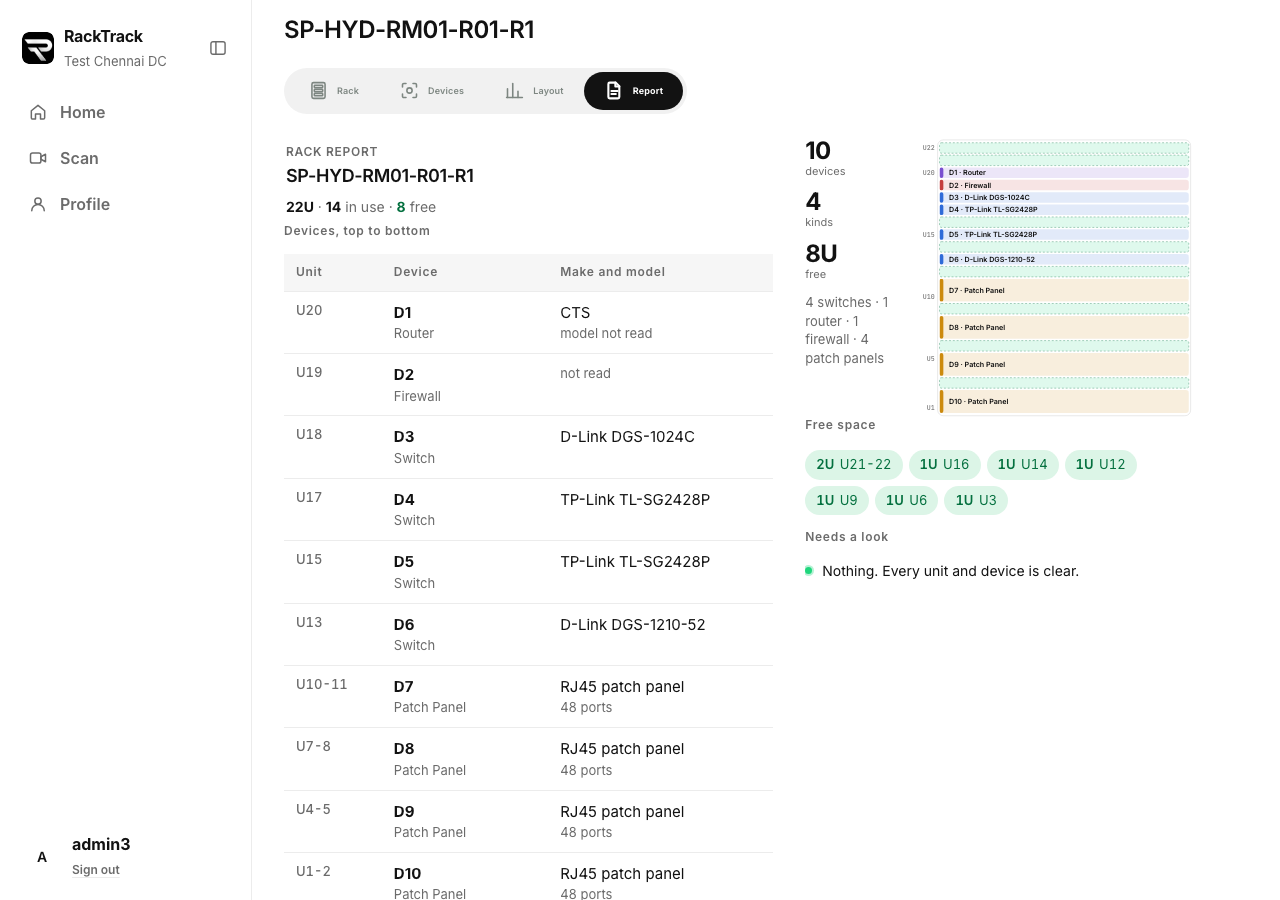
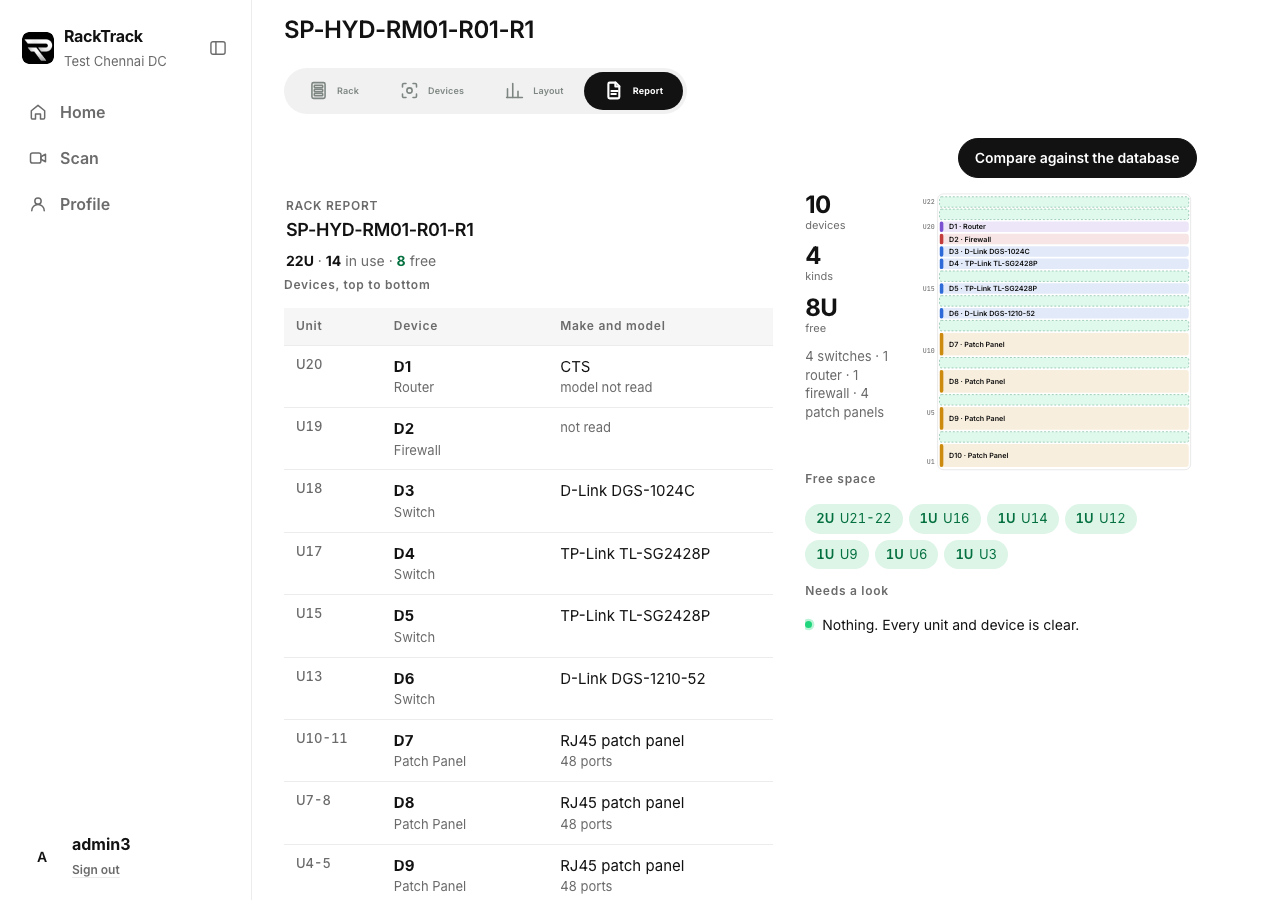
The Report shows only the rack report until the Compare against the database button, top right, is used: a dropdown of Excel workbook, NetBox and ServiceNow CMDB, one panel to confirm the verified rack id (rack id, overall confidence, one line per step, label crop, Confirm and Change), then the diff

diff --git a/mobile/app.js b/mobile/app.js
@@ -529,7 +529,7 @@
   function openResult(id, tab) {
     if (!id) return go('history');
     var fresh = RES.id !== id;
-    if (fresh) { RES.sel = null; RES.view = null; RES.pick = null; RES.labelAsked = null; RES.cmp = null; RES.cmpSrc = null; RES.diffMode = null; $('df-top').innerHTML = ''; $('diff-top').innerHTML = ''; }
+    if (fresh) { RES.sel = null; RES.view = null; RES.pick = null; RES.labelAsked = null; RES.cmp = null; RES.cmpSrc = null; RES.cmpUi = 'idle'; RES.cmpPick = false; RES.diffMode = null; $('cmp-menu').hidden = true; $('sec-tools').hidden = true; $('df-top').innerHTML = ''; $('diff-top').innerHTML = ''; }
     RES.id = id; clearInterval(RES.timer); remember(id);
     RES.tab = tab; $('res-eyebrow').textContent = 'Result'; $('rep-full').hidden = NATIVE;   // only the open tab shows (data-tab)
     loadView(true);
@@ -896,36 +896,32 @@
   function loadDrift() { var id = RES.id; api('/api/video/' + id + '/drift').then(function (d) { if (RES.id === id) renderCompare(d); }).catch(function (e) { $('df-top').innerHTML = '<p class="err">' + esc(e.message) + '</p>'; }); }
   function setDb(body) { return api('/api/video/' + RES.id + '/database', { method: 'POST', headers: { 'Content-Type': 'application/json' }, body: JSON.stringify(body) }).then(function (d) { renderCompare(d); return d; }).catch(function (e) { toast(e.message); }); }
   function copyWhen(d, s) { return d.imported[s] ? 'copy of ' + d.imported[s].replace('T', ' ').slice(0, 16) : 'no copy yet'; }
+  var SRCLABEL = { excel: 'Excel workbook', netbox: 'NetBox', cmdb: 'ServiceNow CMDB' };
+  function firstSentence(t) { t = String(t || '').replace(/\s+/g, ' ').trim(); var m = t.match(/^.*?[.!?](\s|$)/); t = m ? m[0].trim() : t; return t.length > 110 ? t.slice(0, 107) + '...' : t; }
+  // the compare, in the owner's order: a button, a dropdown of the three databases, one panel to confirm the rack id, then the differences.
+  // RES.cmpUi: idle (nothing shown) > confirm (the panel) > drift (the differences)
   function renderCompare(d) {
-    RES.cmp = d; var src = RES.cmpSrc || d.source || 'excel', has = !!d.imported[src], open = d.chosen && d.source === src;
-    var h = '<div class="card cmpcard"><div class="dfrow"><label class="muted small" for="cmp-src">Database</label><select id="cmp-src">'
-      + Object.keys(d.sources).map(function (s) { return '<option value="' + s + '"' + (s === src ? ' selected' : '') + '>' + esc(d.sources[s]) + ' (' + copyWhen(d, s) + ')</option>'; }).join('') + '</select>'
-      + (has ? '<button class="btn primary" type="button" id="cmp-go">Compare against the database</button>'
-        : src === 'excel' ? '<a class="btn primary" href="#copies">No workbook copied yet: copy one in</a>'
-        : '<button class="btn primary" type="button" id="cmp-copy" data-src="' + src + '">No ' + esc(d.sources[src]) + ' copy yet: copy in and compare</button>') + '</div>'
-      + '<p class="muted small">Copies and logins are kept under Profile: <a href="#copies">Database copies</a> and <a href="#connections">Connections</a>.</p></div>';
-    if (open) {
-      var I = d.identify || { steps: [] };
-      h += '<div class="card idcard"><div class="dfrow"><b>Which rack this is</b>' + (I.confidence != null ? '<span class="idconf ' + esc(I.state) + '">' + pc(I.confidence) + '</span>' : '') + '</div>'
-        + '<p class="verdict ' + esc(I.state || '') + '">' + esc(I.words || '') + '</p>'
-        + '<figure class="lblstrip"><img src="/api/video/' + encodeURIComponent(RES.id) + '/rack-label.jpg" alt="The strip above the first unit" onerror="this.parentNode.hidden=true"><figcaption class="muted small">The strip of the rack picture above the first unit, where the rack label is read.</figcaption></figure>'
-        + '<ol class="idsteps">' + I.steps.map(function (st) { return '<li class="st-' + st.outcome + (st.agrees === false ? ' st-against' : '') + '"><div class="dfrow"><b>Step ' + st.n + ' · ' + esc(st.title) + (st.conf != null ? ': ' + pc(st.conf) : '') + '</b><span class="idout">' + (OUTCOME[st.outcome] || esc(st.outcome)) + (st.left && st.left.length === 1 ? ': ' + esc(st.left[0]) : '') + '</span></div>'
-          + (st.why && st.n !== 0 ? '<p class="small">' + esc(st.why) + '</p>' : '') + '<p class="muted small">' + esc(st.proof) + (st.n === 0 ? ' <a href="#" data-cmpchange>Change</a>' : '') + '</p></li>'; }).join('') + '</ol>';
-      if (d.match) h += '<p>Record: <b>' + esc(d.match.rack_key) + '</b> in ' + esc(d.sources[src]) + ', matched ' + (HOW[d.match.how] || esc(d.match.how)) + '. <span class="muted small">' + esc(d.match.why) + '</span></p>';
-      if (!d.match && I.top && I.top.length) h += '<p class="glabel">The closest racks</p><div class="idtop">' + I.top.map(function (t) { return '<button class="btn" type="button" data-cmppick="' + esc(t.rack_key) + '">' + esc(t.rack_key) + '<small class="muted"> ' + esc(t.why) + '</small></button>'; }).join('') + '</div>';
-      h += '<div class="dfrow"><label class="muted small" for="cmp-type">' + (d.match ? 'Use another record' : 'Which rack is this?') + '</label><input id="cmp-type" list="cmp-list" placeholder="Search or type a rack id" autocomplete="off"><datalist id="cmp-list">'
-        + d.candidates.map(function (r) { return '<option value="' + esc(r.rack_key) + '">' + esc(r.rack_key) + ' - ' + pl(r.devices, 'device') + '</option>'; }).join('') + '</datalist><button class="btn" type="button" id="cmp-use">Use this record</button></div>'
-        + '<p class="muted small">A name not in this copy is kept as this rack\'s id for the next scan of it (Change, next to the rack id at the top).</p>'
-        + (d.match ? '<div class="dfrow"><button class="btn primary big" type="button" id="cmp-continue">' + (d.confirmed ? 'Compared. Compare again' : 'Continue') + '</button></div>' : '') + '</div>';
+    RES.cmp = d; var ui = RES.cmpUi || 'idle', src = RES.cmpSrc || d.source || 'excel', I = d.identify || { steps: [] };
+    if (ui !== 'confirm' || !(d.chosen && d.source === src)) { $('df-top').innerHTML = ''; return renderDiff(d, ui === 'drift'); }
+    var m = d.match;
+    var h = '<div class="card idcard"><div class="dfrow"><b>Confirm the verified rack id</b><span class="muted small">' + esc(SRCLABEL[src] || d.sources[src]) + '</span></div>'
+      + '<div class="dfrow idhead"><span class="idrack">' + (m ? esc(m.rack_key) : 'No single rack found') + '</span>' + (I.confidence != null ? '<span class="idconf ' + esc(I.state) + '">' + pc(I.confidence) + ' overall</span>' : '') + '</div>'
+      + '<figure class="lblstrip"><img src="/api/video/' + encodeURIComponent(RES.id) + '/rack-label.jpg" alt="The rack label crop" onerror="this.parentNode.hidden=true"></figure>'
+      + '<ul class="idlines">' + I.steps.filter(function (st) { return st.outcome !== 'skipped' || st.n === 0; }).map(function (st) { return '<li><b>' + esc(st.title) + '</b><span class="idc">' + (st.conf != null ? pc(st.conf) : (OUTCOME[st.outcome] || '')) + '</span><span class="muted small idw">' + esc(firstSentence(st.why || st.proof)) + '</span></li>'; }).join('') + '</ul>'
+      + '<div class="dfrow idbtns"><button class="btn primary" type="button" id="cmp-continue"' + (m ? '' : ' disabled') + '>Confirm</button><button class="btn" type="button" id="cmp-change">Change</button></div>';
+    if (RES.cmpPick || !m) {
+      h += '<div class="idpick">' + (!m && I.top && I.top.length ? '<p class="glabel">The closest racks</p><div class="idtop">' + I.top.map(function (t) { return '<button class="btn" type="button" data-cmppick="' + esc(t.rack_key) + '">' + esc(t.rack_key) + '<small class="muted"> ' + esc(t.why) + '</small></button>'; }).join('') + '</div>' : '')
+        + '<div class="dfrow"><label class="muted small" for="cmp-type">Which record is this rack?</label><input id="cmp-type" list="cmp-list" placeholder="Search or type a rack id" autocomplete="off"><datalist id="cmp-list">'
+        + d.candidates.map(function (r) { return '<option value="' + esc(r.rack_key) + '">' + esc(r.rack_key) + ' - ' + pl(r.devices, 'device') + '</option>'; }).join('') + '</datalist><button class="btn" type="button" id="cmp-use">Use this record</button></div></div>';
     }
-    $('df-top').innerHTML = h;
-    renderDiff(d);
+    $('df-top').innerHTML = h + '</div>';
+    renderDiff(d, false);
   }
   function recordRow(d, name) { var r = (d.record || []).filter(function (x) { return x.name === name; })[0]; if (!r) return '';
     return [r.name, r.kind, [r.manufacturer, r.model].filter(Boolean).join(' '), r.ru_start != null ? 'U' + r.ru_start + (r.ru_height > 1 ? '-' + (r.ru_start + r.ru_height - 1) : '') : ''].filter(Boolean).map(esc).join(' · '); }
-  function renderDiff(d) {
+  function renderDiff(d, show) {
     var el = $('diff-top');
-    if (!(d.confirmed && d.drift && d.match)) { el.innerHTML = ''; return; }
+    if (!(show && d.confirmed && d.drift && d.match)) { el.innerHTML = ''; return; }
     var rows = d.drift.rows, mode = RES.diffMode || 'short', by = {}, src = d.sources[d.source];
     rows.forEach(function (r) { by[r.what] = (by[r.what] || 0) + 1; });
     var head = '<b>' + rows.length + '</b> ' + (rows.length === 1 ? 'difference' : 'differences') + ' against <b>' + esc(d.match.rack_key) + '</b> in ' + esc(src);
@@ -941,19 +937,22 @@
     if (d.drift.notes.length) h += '<details class="card"><summary>Not checked (' + d.drift.notes.length + ')</summary><ul class="muted small">' + d.drift.notes.map(function (n) { return '<li>' + esc(n) + '</li>'; }).join('') + '</ul></details>';
     el.innerHTML = h;
   }
-  document.addEventListener('change', function (e) { if (e.target.id !== 'cmp-src') return; RES.cmpSrc = e.target.value; renderCompare(RES.cmp); });
-  document.addEventListener('click', function (e) { var t = e.target.closest && e.target.closest('#cmp-go, #cmp-copy, #cmp-use, #cmp-continue, [data-cmppick], [data-dfmode], [data-cmpchange]'); if (!t) return;
-    if (t.hasAttribute('data-cmpchange')) { e.preventDefault(); var ty = $('cmp-type'); if (ty) { ty.focus(); ty.scrollIntoView({ block: 'center' }); } return; }
+    document.addEventListener('click', function (e) { var t = e.target.closest && e.target.closest('#cmp-btn, #more-link, #cmp-change, [data-cmpsrc], #cmp-use, #cmp-continue, [data-cmppick], [data-dfmode]'); if (!t) return;
+    if (t.id === 'cmp-btn') { var mn = $('cmp-menu'); mn.hidden = !mn.hidden; t.setAttribute('aria-expanded', String(!mn.hidden)); return; }
+    if (t.id === 'more-link') { e.preventDefault(); var st = $('sec-tools'); st.hidden = !st.hidden; if (!st.hidden) { if (window.RTFEAT && !$('res-tools').children.length) window.RTFEAT.fillResult(RES.id); st.scrollIntoView({ block: 'nearest' }); } return; }
+    if (t.id === 'cmp-change') { RES.cmpPick = !RES.cmpPick; renderCompare(RES.cmp); var ty0 = $('cmp-type'); if (ty0) ty0.focus(); return; }
     var src = RES.cmpSrc || (RES.cmp && RES.cmp.source) || 'excel';
-    if (t.dataset.dfmode) { RES.diffMode = t.dataset.dfmode; return renderDiff(RES.cmp); }
-    if (t.id === 'cmp-go') return setDb({ source: src });
-    if (t.id === 'cmp-copy') { t.disabled = true; t.textContent = 'Copying...'; return api('/api/sources/' + t.dataset.src + '/import', { method: 'POST' }).then(function (r) { toast(pl(r.devices, 'device') + ' copied in from ' + pl(r.racks, 'rack')); return setDb({ source: src }); }).catch(function (er) { toast(er.message); loadDrift(); }); }
+    if (t.dataset.dfmode) { RES.diffMode = t.dataset.dfmode; return renderDiff(RES.cmp, true); }
+    if (t.dataset.cmpsrc) { src = t.dataset.cmpsrc; RES.cmpSrc = src; $('cmp-menu').hidden = true; $('cmp-btn').setAttribute('aria-expanded', 'false'); RES.cmpPick = false; RES.cmpUi = 'confirm';
+      if (RES.cmp && RES.cmp.imported[src]) return setDb({ source: src });
+      if (src === 'excel') { RES.cmpUi = 'idle'; toast('No workbook is copied in yet. Copy one in under Database copies.'); return go('copies'); }
+      toast('Copying ' + SRCLABEL[src] + ' in...'); return api('/api/sources/' + src + '/import', { method: 'POST' }).then(function (r) { toast(pl(r.devices, 'device') + ' copied in from ' + pl(r.racks, 'rack')); return setDb({ source: src }); }).catch(function (er) { RES.cmpUi = 'idle'; toast(er.message); loadDrift(); }); }
     if (t.dataset.cmppick) return setDb({ source: src, rack_key: t.dataset.cmppick });
     if (t.id === 'cmp-use') { var v = ($('cmp-type').value || '').trim(); if (!v) return toast('Type or pick a rack id first.');
       var known = (RES.cmp.candidates || []).some(function (r) { return r.rack_key === v; });
       if (known) return setDb({ source: src, rack_key: v });
       return saveRackId({ id: v }).then(function () { toast(v + ' is kept as this rack\'s id; it is not in this copy.'); return setDb({ source: src }); }); }
-    if (t.id === 'cmp-continue') { var m = RES.cmp.match; return setDb({ source: src, rack_key: m && m.how === 'picked' ? m.rack_key : null, confirmed: true }).then(function () { secTo('diff'); }); }
+    if (t.id === 'cmp-continue') { var m = RES.cmp.match; RES.cmpUi = 'drift'; return setDb({ source: src, rack_key: m && m.how === 'picked' ? m.rack_key : null, confirmed: true }).then(function () { secTo('diff'); }); }
   });
   // the workbook's validation report (RT-EOS's checks), shown before anything is imported; Import makes a new Excel copy (Profile > Database copies)
   function pl(n, w) { return n + ' ' + w + (n === 1 ? '' : 's'); }

diff --git a/mobile/flow.css b/mobile/flow.css
@@ -163,3 +163,13 @@ body.web.result #rnav.inpage { align-self:flex-start !important; margin:0 !impor
 .screen[data-screen="result"][data-tab="devices"] > #res-rack, .screen[data-screen="result"][data-tab="devices"] > #res-layout, .screen[data-screen="result"][data-tab="devices"] > #res-report,
 .screen[data-screen="result"][data-tab="layout"] > #res-rack, .screen[data-screen="result"][data-tab="layout"] > #res-devices, .screen[data-screen="result"][data-tab="layout"] > #res-report,
 .screen[data-screen="result"][data-tab="report"] > #res-rack, .screen[data-screen="result"][data-tab="report"] > #res-devices, .screen[data-screen="result"][data-tab="report"] > #res-layout { display:none !important; }
+
+/* the Report: a Compare button top right, a dropdown, one confirm panel, then the differences; More on this rack is a small link at the bottom */
+.rpbar { display:flex; justify-content:flex-end; position:relative; }
+.cmpdd { position:relative; } .ddmenu { position:absolute; right:0; top:calc(100% + 6px); z-index:20; min-width:220px; background:#fff; border:1px solid var(--line); border-radius:12px; box-shadow:0 8px 24px rgba(0,0,0,.12); padding:6px; display:flex; flex-direction:column; }
+.ddmenu[hidden] { display:none; } .ddmenu button { border:0; background:none; text-align:left; font:inherit; font-size:14px; padding:10px 12px; border-radius:8px; cursor:pointer; color:var(--ink); } .ddmenu button:hover { background:var(--ground); }
+.idhead { justify-content:space-between; } .idrack { font:600 18px var(--mono); } .idlines { list-style:none; margin:0; padding:0; } .idlines li { display:grid; grid-template-columns:1fr auto; gap:2px 12px; padding:8px 0; border-top:1px solid var(--line); } .idlines .idw { grid-column:1 / -1; } .idlines .idc { font-weight:600; font-size:13px; }
+.idbtns { gap:10px; } .idpick { display:flex; flex-direction:column; gap:10px; padding-top:8px; border-top:1px solid var(--line); }
+.rpmore { margin:24px 0 8px; font-size:13px; } .rpmore a { color:var(--t2); text-decoration:underline; }
+@media (max-width:600px) { .cmpdd, #cmp-btn { width:100%; } .ddmenu { left:0; right:0; } }
+#sec-compare:has(#df-top:empty) { display:none; }

diff --git a/mobile/index.html b/mobile/index.html
@@ -273,12 +273,16 @@
       <div class="elegend" id="rt-legend"></div>
       <div class="rteos" id="rt-topo"></div>
     </div>
-    <div class="rpart" id="res-report"><div id="rp-top"></div>
-      <div class="cmpsec" id="sec-compare"><h3>Compare against the database</h3><p class="muted small">Choose Excel workbook, NetBox or ServiceNow CMDB and press Compare. Check which rack it matched, then Continue. Nothing is ever written back to the database.</p><div id="df-top"></div></div>
+    <div class="rpart" id="res-report">
+      <div class="rpbar"><div class="cmpdd"><button class="btn primary" type="button" id="cmp-btn" aria-haspopup="true" aria-expanded="false">Compare against the database</button>
+        <div class="ddmenu" id="cmp-menu" hidden><button type="button" data-cmpsrc="excel">Excel workbook</button><button type="button" data-cmpsrc="netbox">NetBox</button><button type="button" data-cmpsrc="cmdb">ServiceNow CMDB</button></div></div></div>
+      <div id="rp-top"></div>
+      <div class="cmpsec" id="sec-compare"><div id="df-top"></div></div>
       <div class="cmpsec" id="sec-diff"><div id="diff-top"></div></div>
-      <!-- wt/features: the remaining RT-EOS functions on this run, inside the Report (mobile/features.js) -->
-      <div class="cmpsec" id="sec-tools"><h3>More on this rack</h3><p class="muted small">Find a port, the connections, the cables against the Excel matrix, the worklist, read again, the physical layer document, SFP advice and the topology.</p><div id="res-tools"></div></div>
-      <div id="res-others"></div></div>
+      <div id="res-others"></div>
+      <!-- wt/features: the remaining RT-EOS functions on this run (mobile/features.js), opened by the small link below -->
+      <p class="rpmore"><a href="#" id="more-link">More on this rack</a></p>
+      <div id="sec-tools" hidden><div id="res-tools"></div></div></div>
   </section>
 
   <!-- wt/features: one rack tool at a time (#tools/<run>/<tool>, #tools/site) -->

diff --git a/tools/proof_compare.py b/tools/proof_compare.py
@@ -1,0 +1,44 @@
+"""Proof of the Report's compare flow, four states at 1280 and 400 px: before the button, the dropdown, the confirm panel, the drift.
+Needs auth.sh and engine.sh. PW_CHROMIUM=<headless_shell> _cache/venv/bin/python tools/proof_compare.py [engine url] [source]
+Password from RT_PROOF_PASSWORD or data/auth/seed-password.txt (never printed)."""
+import os, pathlib, sys
+from playwright.sync_api import sync_playwright
+
+ROOT = pathlib.Path(__file__).resolve().parents[1]
+OUT = ROOT / "docs" / "proof" / "tabs"
+ENGINE = sys.argv[1] if len(sys.argv) > 1 else "http://127.0.0.1:8700"
+SRC = sys.argv[2] if len(sys.argv) > 2 else "excel"
+RUN = os.environ.get("RT_PROOF_RUN", "fx1hyd000001")
+
+
+def main():
+    pw = os.environ.get("RT_PROOF_PASSWORD") or (ROOT / "data" / "auth" / "seed-password.txt").read_text().strip()
+    bad = []
+    with sync_playwright() as p:
+        b = p.chromium.launch(executable_path=os.environ.get("PW_CHROMIUM") or None)
+        for width, height in ((1280, 900), (400, 860)):
+            pg = b.new_page(viewport={"width": width, "height": height})
+            pg.on("pageerror", lambda e, w=width: bad.append(f"{w}: page error: {e}"))
+            pg.goto(ENGINE + "/app/#signin"); pg.wait_for_selector("#si-user", state="visible")
+            pg.fill("#si-user", os.environ.get("RT_PROOF_USER", "admin3")); pg.fill("#si-pass", pw); pg.click("#signin button[type=submit]")
+            pg.wait_for_selector('[data-screen="home"]:not([hidden])', timeout=20000)
+            pg.goto(ENGINE + "/app/#result/" + RUN + "/report"); pg.wait_for_timeout(3000)
+
+            def shot(name):
+                pg.wait_for_timeout(500); pg.screenshot(path=str(OUT / f"compare_{name}_{width}.png"), full_page=True)
+            vis = lambda s: pg.is_visible(s)
+            if vis("#df-top > *") or vis("#diff-top > *") or vis("#sec-tools") or vis("#cmp-menu") or not vis("#cmp-btn"):
+                bad.append(f"{width}: the report is not clean before the button")
+            shot("1_before")
+            pg.click("#cmp-btn"); pg.wait_for_selector("#cmp-menu", state="visible"); shot("2_dropdown")
+            pg.click(f'[data-cmpsrc="{SRC}"]'); pg.wait_for_selector(".idcard", timeout=20000); shot("3_confirm")
+            pg.click("#cmp-continue"); pg.wait_for_selector("#diff-top .card", timeout=20000)
+            if vis(".idcard"): bad.append(f"{width}: confirm panel still shown after Confirm")
+            shot("4_drift")
+            pg.click('[data-dfmode="detailed"]'); pg.wait_for_timeout(300)
+            pg.click("#more-link"); pg.wait_for_selector("#res-tools .grow", timeout=5000)
+            pg.close()
+    print("PROBLEMS:", bad or "none"); sys.exit(1 if bad else 0)
+
+
+main()
